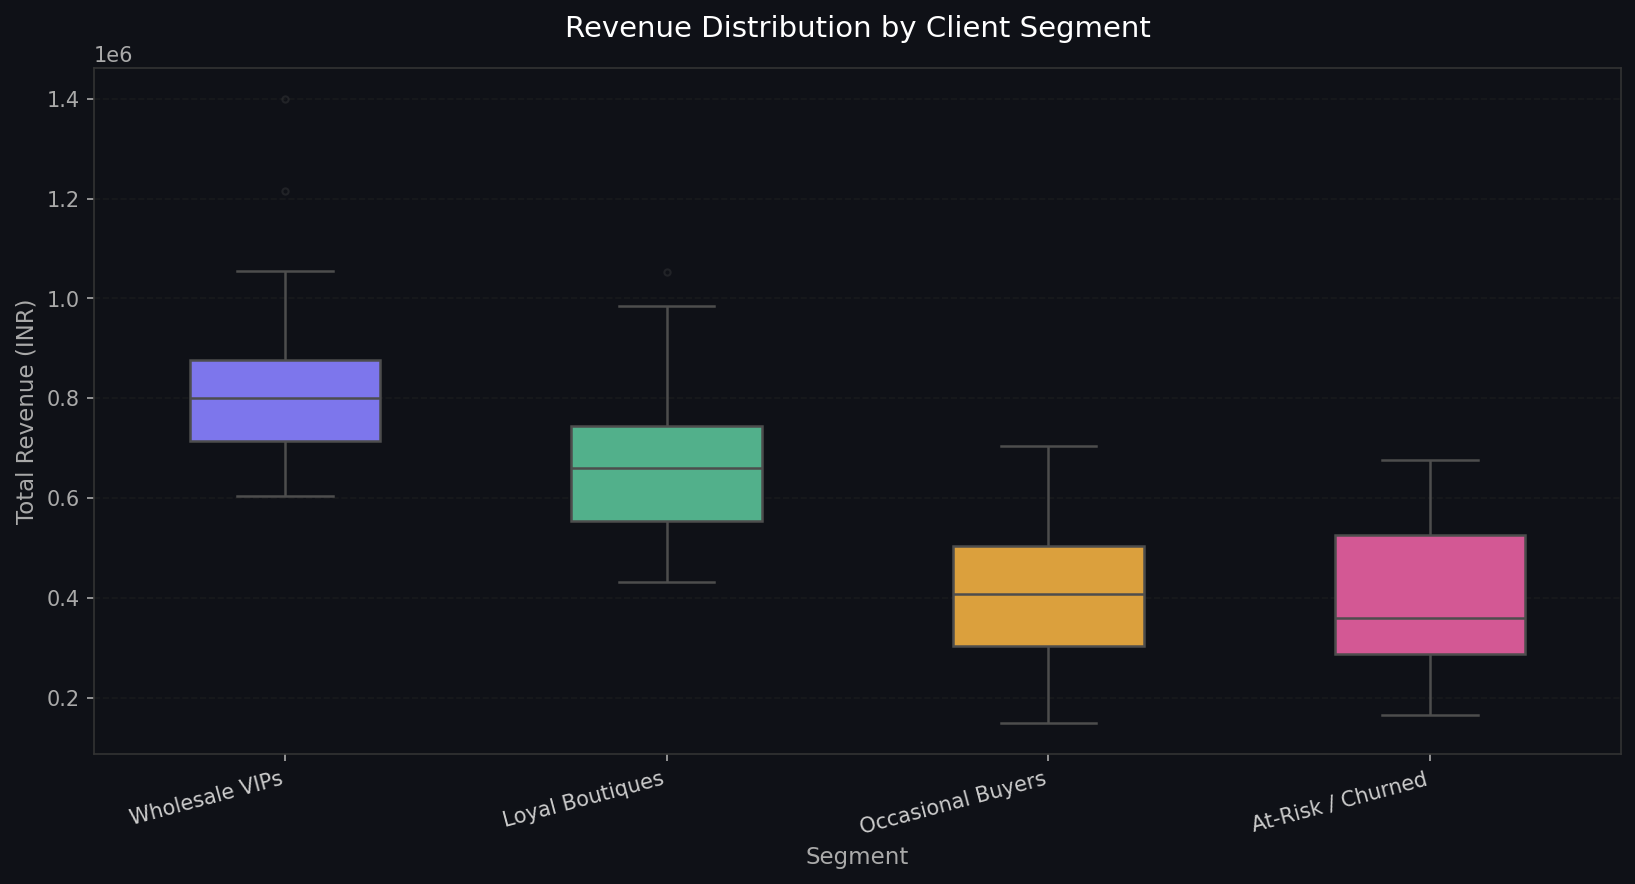
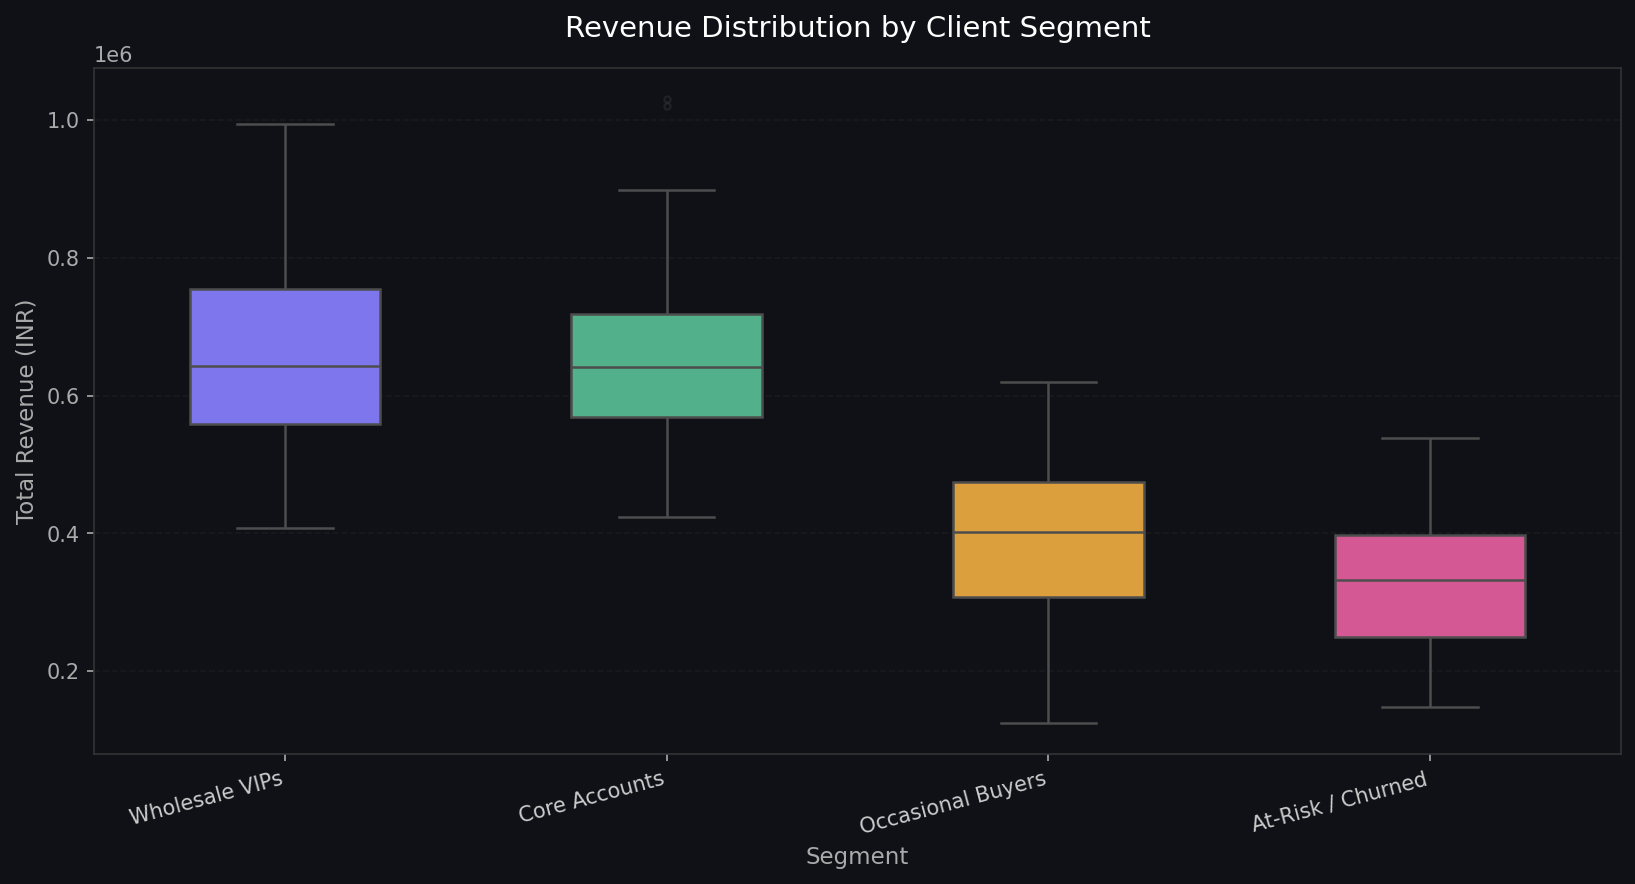
at risk clients

diff --git a/dashboard/app/page.tsx b/dashboard/app/page.tsx
@@ -3,6 +3,7 @@ import { formatINRCompact } from '@/lib/format';
 import KpiCard from '@/components/KpiCard';
 import SegmentDonut from '@/components/SegmentDonut';
 import AtRiskTable from '@/components/AtRiskTable';
+import DefaultersTable from '@/components/DefaultersTable';
 import RevenueBar from '@/components/RevenueBar';
 
 // ─── Types ────────────────────────────────────────────────────────────────────
@@ -23,6 +24,16 @@ interface AtRiskRow {
 interface SummaryRow {
   total_clients: string;
   total_revenue: string;
+}
+
+interface OutstandingRow {
+  outstanding_dues: string;
+}
+
+interface DefaulterRow {
+  client: string;
+  unpaid_dues: string;
+  unpaid_invoices: string;
 }
 
 // Force dynamic rendering — no caching for live DB data
@@ -59,6 +70,23 @@ export default async function DashboardPage() {
     LIMIT 10
   `);
 
+  // Query A: Outstanding KPI (sum of total_amount_inr where payment_status IN ('Pending', 'Overdue'))
+  const [outstandingResult] = await query<OutstandingRow>(`
+    SELECT COALESCE(SUM(total_amount_inr), 0)::text AS outstanding_dues
+    FROM invoice_ledger
+    WHERE payment_status IN ('Pending', 'Overdue')
+  `);
+
+  // Query B: Defaulters List (top 10 defaulters)
+  const defaulterRows = await query<DefaulterRow>(`
+    SELECT client, SUM(total_amount_inr) AS unpaid_dues, COUNT(invoice_id) AS unpaid_invoices
+    FROM invoice_ledger
+    WHERE payment_status IN ('Pending', 'Overdue')
+    GROUP BY client
+    ORDER BY unpaid_dues DESC
+    LIMIT 10;
+  `);
+
   // ─── Derived values ─────────────────────────────────────────────────────────
   const segmentData = segmentRows.map((r) => ({
     segment: r.segment,
@@ -68,6 +96,7 @@ export default async function DashboardPage() {
 
   const totalClients = parseInt(summary?.total_clients ?? '0', 10);
   const totalRevenue = parseFloat(summary?.total_revenue ?? '0');
+  const outstandingDues = parseFloat(outstandingResult?.outstanding_dues ?? '0');
 
   const atRiskClients = atRiskRows.map((r) => ({
     client:    r.client,
@@ -75,6 +104,12 @@ export default async function DashboardPage() {
     frequency: r.frequency,
     monetary:  parseFloat(r.monetary),
     segment:   r.segment,
+  }));
+
+  const defaulters = defaulterRows.map((r) => ({
+    client:          r.client,
+    unpaid_dues:     parseFloat(r.unpaid_dues),
+    unpaid_invoices: parseInt(r.unpaid_invoices, 10),
   }));
 
   return (
@@ -89,6 +124,11 @@ export default async function DashboardPage() {
               alt="Arya Ribbon Company Logo"
               className="h-12 w-auto object-contain"
             />
+            <div>
+              <span className="text-xl font-extrabold tracking-tight text-white leading-tight">
+                Arya Ribbon Company
+              </span>
+            </div>
           </div>
 
         </div>
@@ -99,7 +139,7 @@ export default async function DashboardPage() {
         {/* ─── KPI Cards ──────────────────────────────────────────────────────── */}
         <section>
           <p className="text-xs font-semibold uppercase tracking-widest text-slate-500 mb-4">Key Metrics</p>
-          <div className="grid grid-cols-2 md:grid-cols-4 gap-4">
+          <div className="grid grid-cols-2 md:grid-cols-3 lg:grid-cols-5 gap-4">
             <KpiCard
               title="Total Clients"
               value={totalClients}
@@ -115,6 +155,15 @@ export default async function DashboardPage() {
               subtitle="Lifetime monetary value"
               icon="💰"
               gradient="bg-gradient-to-br from-emerald-500 to-teal-700"
+            />
+            <KpiCard
+              title="Outstanding Dues"
+              value={Math.round(outstandingDues)}
+              prefix=""
+              formattedValue={formatINRCompact(outstandingDues)}
+              subtitle="Pending & overdue dues"
+              icon="⚠"
+              gradient="bg-gradient-to-br from-rose-600 to-red-800"
             />
             <KpiCard
               title="Wholesale VIPs"
@@ -148,7 +197,7 @@ export default async function DashboardPage() {
             {segmentData.map((seg) => {
               const colorMap: Record<string, { bg: string; text: string; border: string }> = {
                 'Wholesale VIPs':    { bg: 'bg-violet-500/10', text: 'text-violet-300', border: 'border-violet-500/20' },
-                'Loyal Boutiques':   { bg: 'bg-emerald-500/10', text: 'text-emerald-300', border: 'border-emerald-500/20' },
+                'Core Accounts':     { bg: 'bg-emerald-500/10', text: 'text-emerald-300', border: 'border-emerald-500/20' },
                 'Occasional Buyers': { bg: 'bg-amber-500/10', text: 'text-amber-300', border: 'border-amber-500/20' },
                 'At-Risk / Churned': { bg: 'bg-pink-500/10', text: 'text-pink-300', border: 'border-pink-500/20' },
               };
@@ -166,10 +215,16 @@ export default async function DashboardPage() {
           </div>
         </section>
 
-        {/* ─── At-Risk Table ──────────────────────────────────────────────────── */}
-        <section>
-          <p className="text-xs font-semibold uppercase tracking-widest text-slate-500 mb-4">Sales Priority</p>
-          <AtRiskTable clients={atRiskClients} />
+        {/* ─── Tables Section ─────────────────────────────────────────────────── */}
+        <section className="space-y-6">
+          <div>
+            <p className="text-xs font-semibold uppercase tracking-widest text-slate-500 mb-4">Sales Priority</p>
+            <AtRiskTable clients={atRiskClients} />
+          </div>
+          <div>
+            <p className="text-xs font-semibold uppercase tracking-widest text-slate-500 mb-4">Financial Risk</p>
+            <DefaultersTable defaulters={defaulters} />
+          </div>
         </section>
 
         {/* ─── Footer ─────────────────────────────────────────────────────────── */}

diff --git a/dashboard/components/DefaultersTable.tsx b/dashboard/components/DefaultersTable.tsx
@@ -1,0 +1,68 @@
+'use client';
+
+import { formatINRCompact } from '@/lib/format';
+
+export interface DefaulterRow {
+  client: string;
+  unpaid_dues: string | number;
+  unpaid_invoices: string | number;
+}
+
+interface Props {
+  defaulters: DefaulterRow[];
+}
+
+export default function DefaultersTable({ defaulters }: Props) {
+  return (
+    <div className="rounded-2xl border border-white/10 bg-gradient-to-br from-slate-900 to-slate-800 p-6 shadow-xl">
+      <div className="flex items-center justify-between mb-4">
+        <div>
+          <h2 className="text-lg font-bold text-white">Financial Risk: Top Defaulters</h2>
+          <p className="text-xs text-slate-500 mt-0.5">Top 10 accounts with pending or overdue invoices</p>
+        </div>
+        <span className="inline-flex items-center gap-1.5 rounded-full bg-rose-500/15 px-3 py-1 text-xs font-semibold text-rose-400 border border-rose-500/30">
+          <span className="w-1.5 h-1.5 rounded-full bg-rose-400 animate-pulse" />
+          High Risk
+        </span>
+      </div>
+      <div className="overflow-x-auto">
+        <table className="w-full text-sm">
+          <thead>
+            <tr className="border-b border-white/10">
+              <th className="text-left py-2 px-3 text-xs font-semibold uppercase tracking-wider text-slate-400">#</th>
+              <th className="text-left py-2 px-3 text-xs font-semibold uppercase tracking-wider text-slate-400">Client Name</th>
+              <th className="text-right py-2 px-3 text-xs font-semibold uppercase tracking-wider text-slate-400">Unpaid Invoices</th>
+              <th className="text-right py-2 px-3 text-xs font-semibold uppercase tracking-wider text-slate-400">Total Outstanding Dues (₹)</th>
+            </tr>
+          </thead>
+          <tbody>
+            {defaulters.map((d, i) => (
+              <tr
+                key={d.client}
+                className="border-b border-white/5 hover:bg-white/5 transition-colors group"
+              >
+                <td className="py-3 px-3 text-slate-500 font-mono text-xs">{String(i + 1).padStart(2, '0')}</td>
+                <td className="py-3 px-3">
+                  <div className="flex items-center gap-2">
+                    <div className="w-7 h-7 rounded-full bg-gradient-to-br from-rose-500 to-red-700 flex items-center justify-center text-xs font-bold text-white shrink-0">
+                      {d.client.split(' ').pop()?.charAt(0) || '!'}
+                    </div>
+                    <span className="text-slate-200 font-medium text-xs leading-tight">{d.client}</span>
+                  </div>
+                </td>
+                <td className="py-3 px-3 text-right">
+                  <span className="inline-flex items-center rounded-md px-2 py-0.5 text-xs font-semibold bg-red-500/20 text-red-400">
+                    {d.unpaid_invoices}
+                  </span>
+                </td>
+                <td className="py-3 px-3 text-right text-rose-400 font-bold font-mono text-xs">
+                  {formatINRCompact(Number(d.unpaid_dues))}
+                </td>
+              </tr>
+            ))}
+          </tbody>
+        </table>
+      </div>
+    </div>
+  );
+}

diff --git a/dashboard/components/RevenueBar.tsx b/dashboard/components/RevenueBar.tsx
@@ -24,7 +24,7 @@ interface Props {
 
 const COLORS: Record<string, string> = {
   'Wholesale VIPs':    '#6C63FF',
-  'Loyal Boutiques':   '#43BF8E',
+  'Core Accounts':     '#43BF8E',
   'Occasional Buyers': '#F5A623',
   'At-Risk / Churned': '#E84393',
 };

diff --git a/dashboard/components/SegmentDonut.tsx b/dashboard/components/SegmentDonut.tsx
@@ -22,7 +22,7 @@ interface Props {
 
 const COLORS: Record<string, string> = {
   'Wholesale VIPs':    '#6C63FF',
-  'Loyal Boutiques':   '#43BF8E',
+  'Core Accounts':     '#43BF8E',
   'Occasional Buyers': '#F5A623',
   'At-Risk / Churned': '#E84393',
 };

diff --git a/03_rfm_kmeans.py b/03_rfm_kmeans.py
@@ -69,7 +69,7 @@ print(centers)
 # Sort by Monetary descending to assign labels
 centers_sorted = centers.sort_values("Monetary", ascending=False).reset_index(drop=True)
 label_map_keys = centers_sorted["Cluster"].tolist()
-labels = ["Wholesale VIPs", "Loyal Boutiques", "Occasional Buyers", "At-Risk / Churned"]
+labels = ["Wholesale VIPs", "Core Accounts", "Occasional Buyers", "At-Risk / Churned"]
 
 # But also check recency: highest recency (oldest last contact) → At-Risk
 # Refine: among low-monetary clusters, highest recency = At-Risk
@@ -125,7 +125,7 @@ engine.dispose()
 # ─── 6. Visualizations ───────────────────────────────────────────────────────
 PALETTE = {
     "Wholesale VIPs":    "#6C63FF",
-    "Loyal Boutiques":   "#43BF8E",
+    "Core Accounts":     "#43BF8E",
     "Occasional Buyers": "#F5A623",
     "At-Risk / Churned": "#E84393",
 }
@@ -160,7 +160,7 @@ plt.close()
 print("[OK] Saved report_assets/rfm_scatter.png")
 
 # ── 6b. Boxplot: Revenue by Segment ──────────────────────────────────────────
-seg_order = ["Wholesale VIPs", "Loyal Boutiques", "Occasional Buyers", "At-Risk / Churned"]
+seg_order = ["Wholesale VIPs", "Core Accounts", "Occasional Buyers", "At-Risk / Churned"]
 
 fig, ax = plt.subplots(figsize=(11, 6))
 fig.patch.set_facecolor("#0F1117")

diff --git a/01_generate_data.py b/01_generate_data.py
@@ -138,13 +138,33 @@ for i in range(1, 4001):
         qty = int(np.random.lognormal(mean=4.5, sigma=1.2))
         qty = max(1, min(qty, 5000))  # cap sanity
 
+    # Payment Status: 'Paid' (60%), 'Pending' (20%), 'Overdue' (20%)
+    status_roll = random.random()
+    if status_roll < 0.60:
+        payment_status = "Paid"
+    elif status_roll < 0.80:
+        payment_status = "Pending"
+    else:
+        payment_status = "Overdue"
+
+    # Payment Method logic
+    if payment_status in ("Pending", "Overdue"):
+        payment_method = None
+    else:
+        if qty > 500:
+            payment_method = random.choice(["Bank Transfer (NEFT)", "Cheque"])
+        else:
+            payment_method = random.choice(["UPI", "Cash", "Bank Transfer (NEFT)"])
+
     records.append({
-        "Invoice_ID":    f"INV-{i:04d}",
-        "Date":          date.strftime("%Y-%m-%d"),
-        "Client":        client,
-        "Product":       product,
-        "Quantity":      qty,
+        "Invoice_ID":     f"INV-{i:04d}",
+        "Date":           date.strftime("%Y-%m-%d"),
+        "Client":         client,
+        "Product":        product,
+        "Quantity":       qty,
         "Unit_Price_INR": unit_price,
+        "Payment_Status": payment_status,
+        "Payment_Method": payment_method,
     })
 
 df = pd.DataFrame(records)

diff --git a/02_clean_and_init_db.py b/02_clean_and_init_db.py
@@ -32,6 +32,10 @@ print(f"After filtering negatives: {len(df)} rows")
 # Calculate Total Amount
 df["Total_Amount_INR"] = (df["Quantity"] * df["Unit_Price_INR"]).round(2)
 
+# Fill null values in Payment_Method with 'Not Applicable'
+if "Payment_Method" in df.columns:
+    df["Payment_Method"] = df["Payment_Method"].fillna("Not Applicable")
+
 # ─── 3. Winsorize top 1% of Total_Amount_INR ─────────────────────────────────
 cap_val = df["Total_Amount_INR"].quantile(0.99)
 df["Total_Amount_INR"] = df["Total_Amount_INR"].clip(upper=cap_val)
